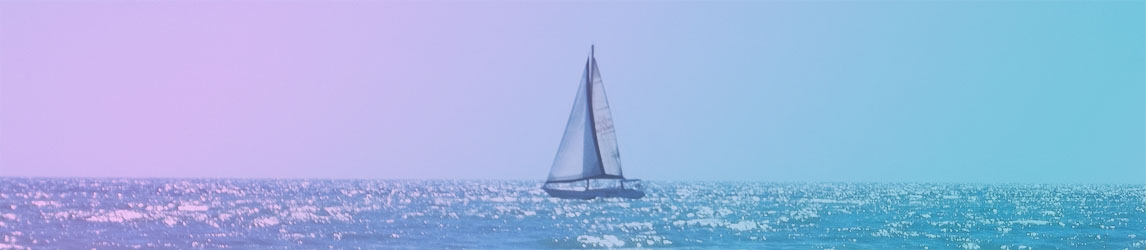
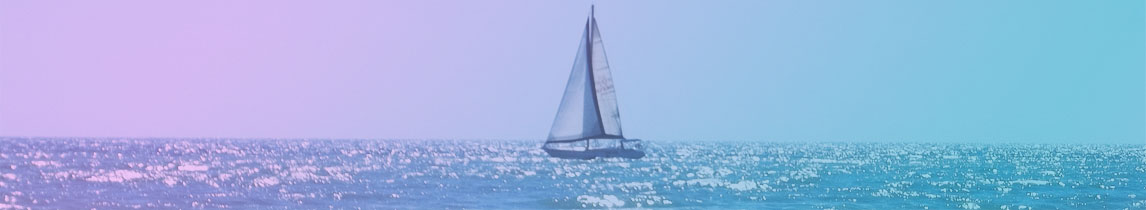
Added content to home, fixed header size
did navbar.html get deleted? I added it back in.

Changed region(s): [[0.0, 0.0857, 1.0, 0.9714], [0.1527, 0.9429, 0.1832, 0.9714]]

diff --git a/band/templates/home.html b/band/templates/home.html
@@ -26,7 +26,7 @@
   </head>
   
   <body>
-  <br><br>
+  <br></br>
 	<div class="jumbotron">
 		<h1>JOYFUL WΛVΣS</h1>
 		<p>▲ Seapunk  Savants ▲</p>
@@ -46,36 +46,12 @@
         <div class="col-sm-8 blog-main">
 
           <div class="blog-post">
-            <h2 class="blog-post-title">Sample blog post</h2>
-            <p class="blog-post-meta">January 1, 2014 by <a href="#">Mark</a></p>
+            <h2 class="blog-post-title">New Years Show!</h2>
+            <p class="blog-post-meta">January 1, 2014 by Nancy</p>
 
-            <p>This blog post shows a few different types of content that's supported and styled with Bootstrap. Basic typography, images, and code are all supported.</p>
-            <hr>
-            <p>Cum sociis natoque penatibus et magnis <a href="#">dis parturient montes</a>, nascetur ridiculus mus. Aenean eu leo quam. Pellentesque ornare sem lacinia quam venenatis vestibulum. Sed posuere consectetur est at lobortis. Cras mattis consectetur purus sit amet fermentum.</p>
-            <blockquote>
-              <p>Curabitur blandit tempus porttitor. <strong>Nullam quis risus eget urna mollis</strong> ornare vel eu leo. Nullam id dolor id nibh ultricies vehicula ut id elit.</p>
-            </blockquote>
-            <p>Etiam porta <em>sem malesuada magna</em> mollis euismod. Cras mattis consectetur purus sit amet fermentum. Aenean lacinia bibendum nulla sed consectetur.</p>
-            <h2>Heading</h2>
-            <p>Vivamus sagittis lacus vel augue laoreet rutrum faucibus dolor auctor. Duis mollis, est non commodo luctus, nisi erat porttitor ligula, eget lacinia odio sem nec elit. Morbi leo risus, porta ac consectetur ac, vestibulum at eros.</p>
-            <h3>Sub-heading</h3>
-            <p>Cum sociis natoque penatibus et magnis dis parturient montes, nascetur ridiculus mus.</p>
-            <pre><code>Example code block</code></pre>
-            <p>Aenean lacinia bibendum nulla sed consectetur. Etiam porta sem malesuada magna mollis euismod. Fusce dapibus, tellus ac cursus commodo, tortor mauris condimentum nibh, ut fermentum massa.</p>
-            <h3>Sub-heading</h3>
-            <p>Cum sociis natoque penatibus et magnis dis parturient montes, nascetur ridiculus mus. Aenean lacinia bibendum nulla sed consectetur. Etiam porta sem malesuada magna mollis euismod. Fusce dapibus, tellus ac cursus commodo, tortor mauris condimentum nibh, ut fermentum massa justo sit amet risus.</p>
-            <ul>
-              <li>Praesent commodo cursus magna, vel scelerisque nisl consectetur et.</li>
-              <li>Donec id elit non mi porta gravida at eget metus.</li>
-              <li>Nulla vitae elit libero, a pharetra augue.</li>
-            </ul>
-            <p>Donec ullamcorper nulla non metus auctor fringilla. Nulla vitae elit libero, a pharetra augue.</p>
-            <ol>
-              <li>Vestibulum id ligula porta felis euismod semper.</li>
-              <li>Cum sociis natoque penatibus et magnis dis parturient montes, nascetur ridiculus mus.</li>
-              <li>Maecenas sed diam eget risus varius blandit sit amet non magna.</li>
-            </ol>
-            <p>Cras mattis consectetur purus sit amet fermentum. Sed posuere consectetur est at lobortis.</p>
+            <p>Setting up for the show.... &star; </p>
+			<img src="{%static 'stage.jpg' %}" width="450">
+
           </div><!-- /.blog-post -->
 
           <div class="blog-post">
@@ -91,7 +67,7 @@
           </div><!-- /.blog-post -->
 
           <div class="blog-post">
-            <h2 class="blog-post-title">New feature</h2>
+            <h2 class="blog-post-title">Another blog post</h2>
             <p class="blog-post-meta">December 14, 2013 by <a href="#">Chris</a></p>
 
             <p>Cum sociis natoque penatibus et magnis dis parturient montes, nascetur ridiculus mus. Aenean lacinia bibendum nulla sed consectetur. Etiam porta sem malesuada magna mollis euismod. Fusce dapibus, tellus ac cursus commodo, tortor mauris condimentum nibh, ut fermentum massa justo sit amet risus.</p>
@@ -116,23 +92,24 @@
         <div class="col-sm-3 col-sm-offset-1 blog-sidebar">
           <div class="sidebar-module sidebar-module-inset">
             <h4>About</h4>
-            <p>Etiam porta <em>sem malesuada magna</em> mollis euismod. Cras mattis consectetur purus sit amet fermentum. Aenean lacinia bibendum nulla sed consectetur.</p>
+            <p>Flagstaff, Arizona based Sea Punk ensemble.</p>
           </div>
           <div class="sidebar-module">
-            <h4>Tour Dates</h4>
+            <h4>Upcoming Tour Dates</h4>
             <ol class="list-unstyled">
-              <li><a href="#">March 2014</a></li>
-              <li><a href="#">February 2014</a></li>
-              <li><a href="#">January 2014</a></li>
-              <li><a href="#">December 2013</a></li>
-              <li><a href="#">November 2013</a></li>
-              <li><a href="#">October 2013</a></li>
-              <li><a href="#">September 2013</a></li>
-              <li><a href="#">August 2013</a></li>
-              <li><a href="#">July 2013</a></li>
-              <li><a href="#">June 2013</a></li>
-              <li><a href="#">May 2013</a></li>
-              <li><a href="#">April 2013</a></li>
+              <li><b>February 21, 2015</b><br>
+			Melbourne, AUS @ Soundwave Festival</li><br>
+              <li><b>February 22, 2015</b><br>
+			Adelaide, AUS @ Soundwave Festival</li><br>
+              <li><b>February 28, 2015</b><br>
+			Brisbane, AUS @ Soundwave Festival</li><br>
+              <li><b>March 1, 2015</b><br>
+			Sydney, AUS @ Soundwave Festival</li><br>
+              <li><b>March 8, 2015</b><br>
+			Houston, TX @ Rodeo Houston</li><br>
+              <li><b>March 15, 2015</b>
+			Tempe, AZ @ Pot of Gold Festival</li><br>
+             <li><b><a href="http://127.0.0.1:8000/tour/">▲ More on our Tour Dates Page ▲</a></b></li>
             </ol>
           </div>
          

diff --git a/static/navbar.html b/static/navbar.html
@@ -1,0 +1,56 @@
+<!DOCTYPE html>
+<html lang="en">
+  <head>
+    <meta charset="utf-8">
+    <meta http-equiv="X-UA-Compatible" content="IE=edge">
+    <meta name="viewport" content="width=device-width, initial-scale=1">
+    <link rel="icon" href="../../favicon.ico">
+
+    <title>Joyful Waves Bio Page</title>
+
+    <link type="text/css" href="https://maxcdn.bootstrapcdn.com/bootstrap/3.3.2/css/bootstrap.min.css" rel="stylesheet">
+
+  </head>
+
+  <body>
+
+    <!-- Fixed navbar -->
+    <nav class="navbar navbar-default navbar-fixed-top">
+      <div class="container">
+        <div class="navbar-header">
+          <button type="button" class="navbar-toggle" data-toggle="collapse" data-target="#navbar">
+            <span class="icon-bar"></span>
+          </button>
+          <a class="navbar-brand" href="#">Joyful Waves</a>
+        </div>
+        <div id="navbar" class="collapse navbar-collapse">
+          <ul class="nav navbar-nav">
+            <li class="active"><a href="#">Home</a></li>
+            <li><a href="#bio">Bios</a></li>
+            <li><a href="#disc">Discography</a></li>
+            <li><a href="#tour">Tour Dates</a></li>
+            <li class="dropdown">
+              <a href="#" class="dropdown-toggle" data-toggle="dropdown">
+                Social Media
+                <b class="caret"></b>
+              </a>
+              <ul class="dropdown-menu">
+                <li><a href="http://www.twitter.com">Twitter</a></li>
+                <li><a href="http://www.youtube.com">YouTube</a></li>
+                <li><a href="http://www.facebook.com">Facebook</a></li>
+              </ul>
+            </li>
+          </ul>
+        </div><!--/.nav-collapse -->
+      </div>
+    </nav>
+
+    <!-- Bootstrap core JavaScript
+    ================================================== -->
+    <!-- Placed at the end of the document so the pages load faster -->
+    <script src="https://ajax.googleapis.com/ajax/libs/jquery/1.11.2/jquery.min.js"></script>
+    <script src="http://getbootstrap.com/dist/js/bootstrap.min.js"></script>
+    <!-- IE10 viewport hack for Surface/desktop Windows 8 bug -->
+    <script src="http://getbootstrap.com/assets/js/ie10-viewport-bug-workaround.js"></script>
+  </body>
+</html>
